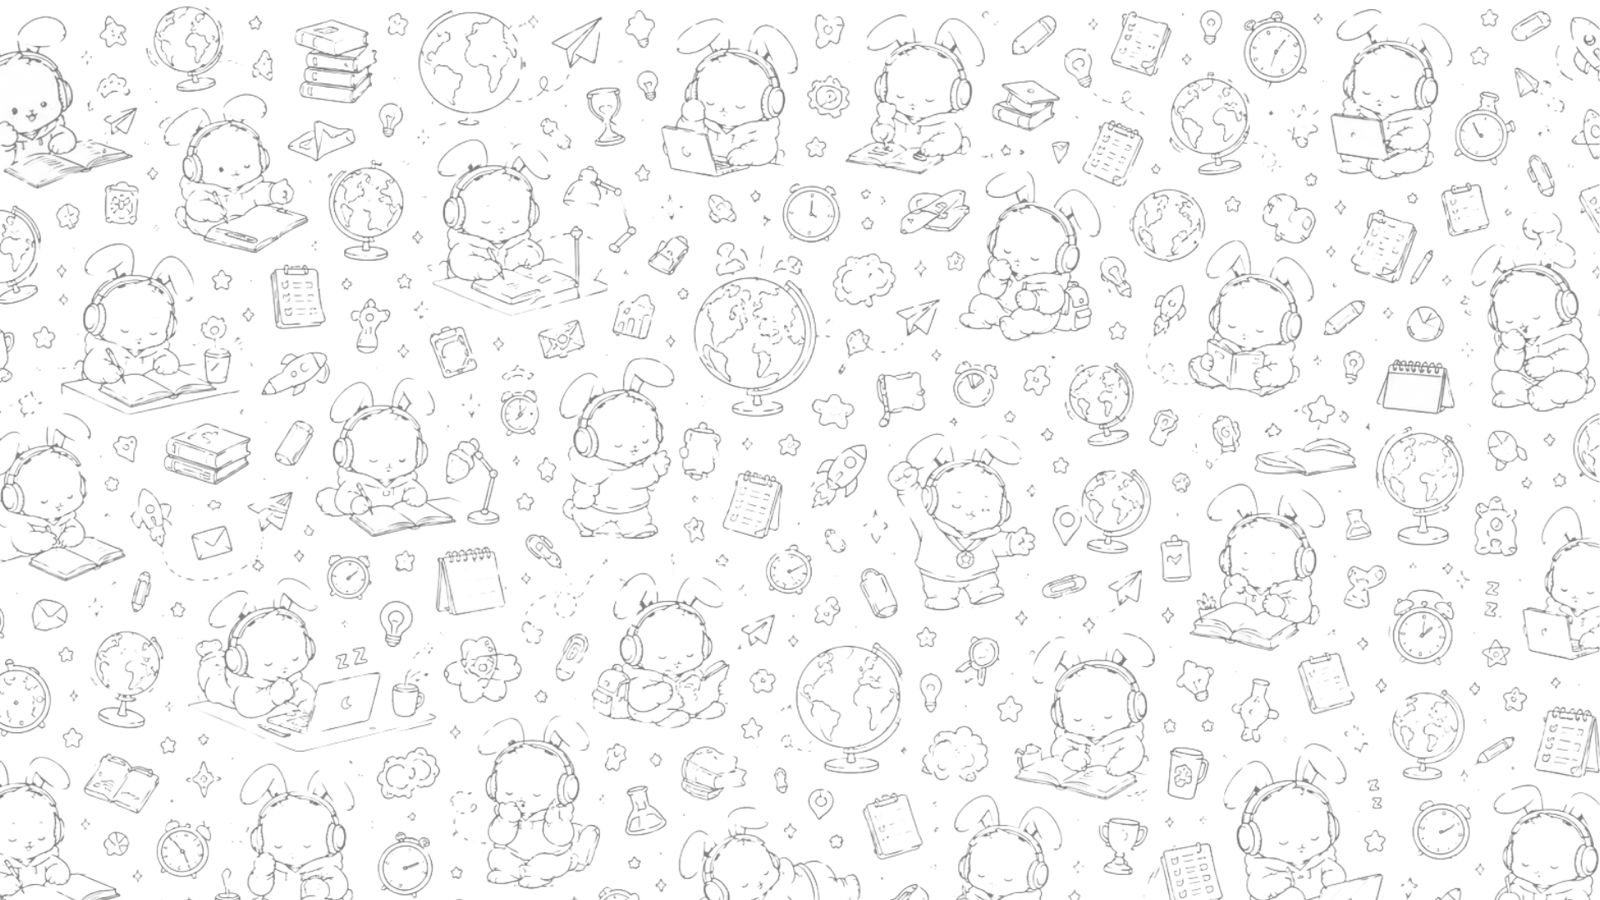
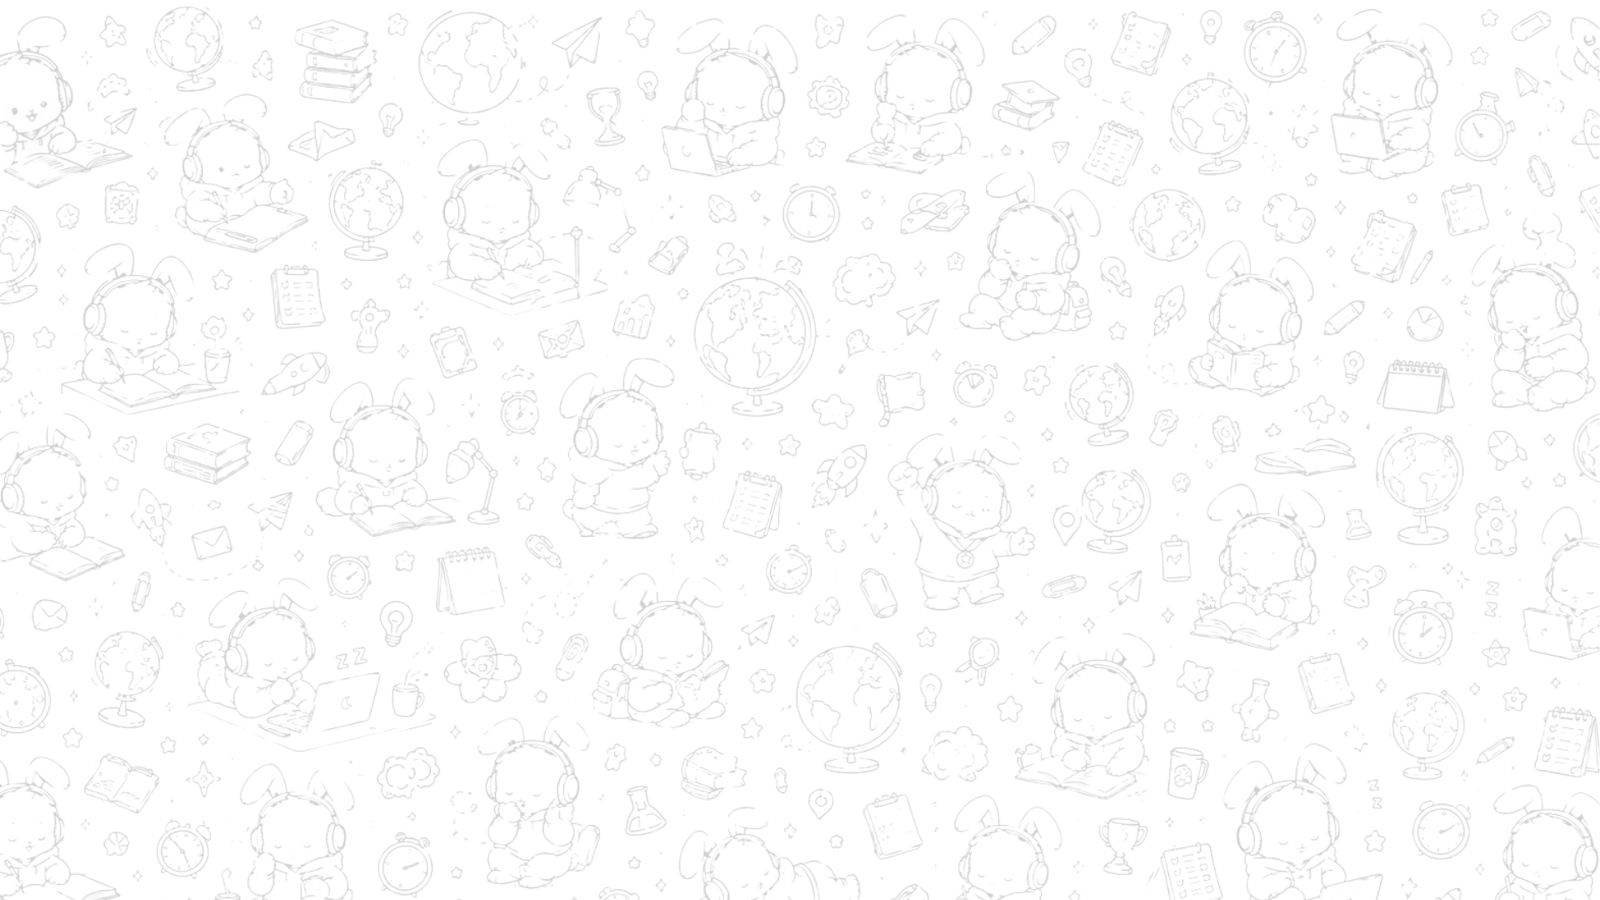
feat: add mascot globe illustration to timeline section with responsive layout

diff --git a/frontend/src/styles/gco/TimelineSection.css b/frontend/src/styles/gco/TimelineSection.css
@@ -1,7 +1,7 @@
 .timeline-section {
   min-height: auto;
   background-color: var(--color-background-primary);
-  padding: 2rem 0;
+  padding: 2rem 0 120px;
   font-family: "SF Pro Display", sans-serif;
 }
 
@@ -68,7 +68,7 @@
   display: flex;
   align-items: center;
   justify-content: center;
-  margin-bottom: 160px;
+  margin-bottom: 200px;
 }
 
 .timeline-step-mobile {
@@ -432,3 +432,131 @@
     6px 6px 16px rgba(0, 0, 0, 0.4);
   border-color: rgba(255, 255, 255, 0.08);
 }
+
+/* Centered Mascot Image Styles */
+.timeline-mascot-container-centered {
+  display: flex;
+  justify-content: center;
+  align-items: center;
+  margin-bottom: 96px;
+  width: 100%;
+}
+
+.timeline-mascot-card-centered {
+  background-color: transparent;
+  border: none;
+  border-radius: 0;
+  padding: 0;
+  box-shadow: none;
+  display: flex;
+  justify-content: center;
+  align-items: center;
+  max-width: 480px;
+  width: 100%;
+  transition: transform 0.4s ease;
+}
+
+.timeline-mascot-card-centered:hover {
+  transform: translateY(-4px);
+}
+
+.timeline-mascot-img-centered {
+  width: 100%;
+  height: auto;
+  max-height: 450px;
+  object-fit: contain;
+  mix-blend-mode: multiply;
+}
+
+[data-theme="dark"] .timeline-mascot-img-centered {
+  mix-blend-mode: normal;
+  opacity: 0.9;
+}
+
+@media (max-width: 600px) {
+  .timeline-mascot-container-centered {
+    margin-bottom: 48px;
+  }
+  
+  .timeline-mascot-card-centered {
+    max-width: 320px;
+  }
+}
+
+/* Left-side Mascot Styling (Desktop only) */
+.timeline-mascot-side-left {
+  display: none;
+}
+
+@media (min-width: 1200px) {
+  /* Hide top centered mascot on large screens */
+  .timeline-mascot-container-centered {
+    display: none !important;
+  }
+
+  /* Show mascot on the left side, make it bigger */
+  .timeline-mascot-side-left {
+    display: flex !important;
+    position: absolute;
+    left: -10%;
+    top: 0px;
+    width: 52%;
+    max-width: 880px;
+    justify-content: center;
+    align-items: center;
+    z-index: 5;
+  }
+
+  .timeline-mascot-card-side {
+    background-color: transparent;
+    border: none;
+    border-radius: 0;
+    padding: 0;
+    box-shadow: none;
+    display: flex;
+    justify-content: center;
+    align-items: center;
+    width: 100%;
+    transition: transform 0.4s ease;
+  }
+
+  .timeline-mascot-card-side:hover {
+    transform: translateY(-4px);
+  }
+
+  .timeline-mascot-img-side {
+    width: 100%;
+    height: auto;
+    max-height: 900px;
+    object-fit: contain;
+    mix-blend-mode: multiply;
+  }
+
+  [data-theme="dark"] .timeline-mascot-img-side {
+    mix-blend-mode: normal;
+    opacity: 0.9;
+  }
+
+  /* Shift the staggered timeline center line and elements to 72% of container width */
+  .timeline-line-bg,
+  .timeline-line-fill {
+    left: 72% !important;
+  }
+
+  .timeline-circle {
+    position: absolute !important;
+    left: 72% !important;
+    transform: translateX(-50%) !important;
+  }
+
+  .timeline-left {
+    right: 28% !important;
+  }
+
+  .timeline-right {
+    left: 72% !important;
+  }
+}
+
+
+

diff --git a/frontend/src/features/gco/TimelineSection.tsx b/frontend/src/features/gco/TimelineSection.tsx
@@ -215,7 +215,41 @@ export default function TimelineSection() {
           />
         </div>
 
+        {/* Mascot Illustration */}
+        <div className="timeline-mascot-container-centered">
+          <motion.div 
+            className="timeline-mascot-card-centered"
+            initial={{ opacity: 0, scale: 0.95 }}
+            whileInView={{ opacity: 1, scale: 1 }}
+            viewport={{ once: true }}
+            transition={{ duration: 0.65, ease: [0.16, 1, 0.3, 1] }}
+          >
+            <img 
+              src="/gco-mascot-globe.png?v=2" 
+              alt="Ateion Mascot pointing at globe" 
+              className="timeline-mascot-img-centered"
+            />
+          </motion.div>
+        </div>
+
         <div className="timeline-relative">
+          {/* Mascot on the left side (desktop only) */}
+          <div className="timeline-mascot-side-left">
+            <motion.div 
+              className="timeline-mascot-card-side"
+              initial={{ opacity: 0, scale: 0.95 }}
+              whileInView={{ opacity: 1, scale: 1 }}
+              viewport={{ once: true }}
+              transition={{ duration: 0.65, ease: [0.16, 1, 0.3, 1] }}
+            >
+              <img 
+                src="/gco-mascot-globe.png?v=2" 
+                alt="Ateion Mascot pointing at globe" 
+                className="timeline-mascot-img-side"
+              />
+            </motion.div>
+          </div>
+
           <div
             ref={lineRef}
             className="timeline-line-bg"

diff --git a/frontend/src/styles/gco/index.css b/frontend/src/styles/gco/index.css
@@ -21,8 +21,7 @@
 }
 
 html[data-theme="dark"] #gco-background-pattern {
-  background-image: linear-gradient(rgba(15, 23, 42, 0.75), rgba(15, 23, 42, 0.75)), url("/whatsapp-image-gco.jpeg");
-  filter: invert(1);
+  background-image: none !important;
 }
 
 #gco-root section,